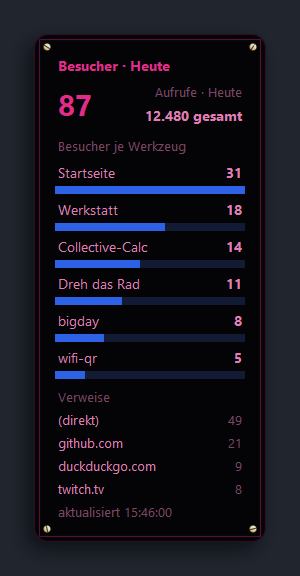
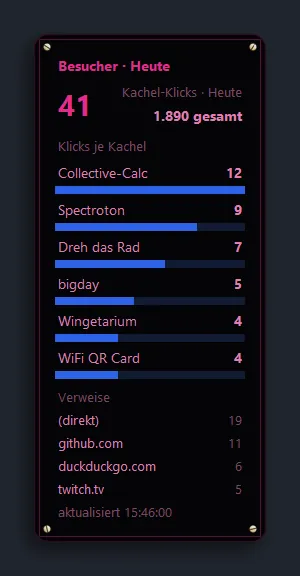
Anleitung Besucher-Ticker: neues Bild 1.3.0 mit Kachel-Klicks, Alt-Text in 14 Sprachen

diff --git a/js/guides.js b/js/guides.js
@@ -2132,20 +2132,20 @@ var GUIDES = {
         w: 300,
         h: 576,
         alt: {
-          de: 'Der Besucher-Ticker mit Beispielzahlen: oben 87 Aufrufe heute und 12.480 insgesamt, darunter ein Balken je Werkzeug von der Startseite bis wifi-qr und ganz unten die Verweise, also woher die Besucher kamen.',
-          en: 'The Besucher-Ticker with sample numbers: at the top 87 pageviews today and 12,480 in total, below that one bar per tool from the start page to wifi-qr, and at the bottom the referrers, meaning where the visitors came from. The picture shows the German interface.',
-          es: 'El Besucher-Ticker con cifras de ejemplo: arriba 87 visitas hoy y 12.480 en total, debajo una barra por herramienta, desde la página de inicio hasta wifi-qr, y abajo del todo las referencias, es decir, de dónde llegaron los visitantes. La imagen muestra la interfaz en alemán.',
-          fr: 'Le Besucher-Ticker avec des chiffres d’exemple : en haut 87 pages vues aujourd’hui et 12 480 au total, en dessous une barre par outil, de la page d’accueil à wifi-qr, et tout en bas les référents, c’est-à-dire d’où venaient les visiteurs. L’image montre l’interface en allemand.',
-          it: 'Il Besucher-Ticker con numeri di esempio: in alto 87 visualizzazioni oggi e 12.480 in totale, sotto una barra per ogni strumento, dalla pagina iniziale a wifi-qr, e in fondo i referrer, cioè da dove sono arrivati i visitatori. L’immagine mostra l’interfaccia in tedesco.',
-          nl: 'De Besucher-Ticker met voorbeeldgetallen: bovenaan 87 weergaven vandaag en 12.480 in totaal, daaronder één balk per tool, van de startpagina tot wifi-qr, en helemaal onderaan de verwijzers, dus waar de bezoekers vandaan kwamen. De afbeelding toont de Duitse interface.',
-          pl: 'Besucher-Ticker z przykładowymi liczbami: u góry 87 odsłon dzisiaj i 12 480 łącznie, pod spodem jeden pasek na każde narzędzie, od strony startowej do wifi-qr, a na samym dole odsyłacze, czyli skąd przyszli odwiedzający. Obraz pokazuje interfejs po niemiecku.',
-          pt: 'O Besucher-Ticker com números de exemplo: no alto 87 visualizações hoje e 12.480 no total, abaixo uma barra por ferramenta, da página inicial até wifi-qr, e lá embaixo as origens, ou seja, de onde vieram os visitantes. A imagem mostra a interface em alemão.',
-          tr: 'Örnek sayılarla Besucher-Ticker: üstte bugün 87 görüntüleme ve toplam 12.480, altında başlangıç sayfasından wifi-qr’ye kadar her araç için bir çubuk, en altta da yönlendirenler, yani ziyaretçilerin nereden geldiği. Görselde Almanca arayüz görünüyor.',
-          ru: 'Besucher-Ticker с примерными цифрами: вверху 87 просмотров за сегодня и 12 480 всего, ниже по одной полосе на каждый инструмент, от стартовой страницы до wifi-qr, а в самом низу источники переходов, то есть откуда пришли посетители. На картинке интерфейс на немецком.',
-          hi: 'उदाहरण वाले आँकड़ों के साथ Besucher-Ticker: ऊपर आज के 87 व्यू और कुल 12,480, उसके नीचे हर टूल के लिए एक बार, स्टार्ट पेज से wifi-qr तक, और सबसे नीचे रेफ़रर, यानी विज़िटर कहाँ से आए। तस्वीर में जर्मन इंटरफ़ेस दिख रहा है।',
-          zh: '带示例数字的 Besucher-Ticker：上方是今天 87 次浏览、总计 12,480 次，下面每个工具一条横条，从首页到 wifi-qr，最下面是来源，也就是访客从哪里来。图中是德语界面。',
-          ja: 'サンプルの数字を入れた Besucher-Ticker。上に今日の閲覧数87と累計12,480、その下にスタートページから wifi-qr までツールごとのバー、いちばん下に参照元（訪問者がどこから来たか）。画像はドイツ語の画面です。',
-          ko: '예시 숫자를 넣은 Besucher-Ticker. 위에는 오늘 조회 수 87과 누적 12,480, 그 아래에는 시작 페이지부터 wifi-qr까지 도구마다 막대 하나, 맨 아래에는 유입 경로, 곧 방문자가 어디서 왔는지가 나옵니다. 그림 속 화면은 독일어입니다.'
+          de: 'Der Besucher-Ticker mit Beispielzahlen: oben 41 Kachel-Klicks heute und 1.890 insgesamt, darunter ein Balken je Kachel von Collective-Calc bis WiFi QR Card und ganz unten die Verweise, also woher die Besucher kamen.',
+          en: 'The Besucher-Ticker with sample numbers: at the top 41 tile clicks today and 1,890 in total, below that one bar per tile from Collective-Calc to WiFi QR Card, and at the bottom the referrers, meaning where the visitors came from. The picture shows the German interface.',
+          es: 'El Besucher-Ticker con cifras de ejemplo: arriba 41 clics en tarjetas hoy y 1.890 en total, debajo una barra por tarjeta, desde Collective-Calc hasta WiFi QR Card, y abajo del todo las referencias, es decir, de dónde llegaron los visitantes. La imagen muestra la interfaz en alemán.',
+          fr: 'Le Besucher-Ticker avec des chiffres d’exemple : en haut 41 clics sur les vignettes aujourd’hui et 1 890 au total, en dessous une barre par vignette, de Collective-Calc à WiFi QR Card, et tout en bas les référents, c’est-à-dire d’où venaient les visiteurs. L’image montre l’interface en allemand.',
+          it: 'Il Besucher-Ticker con numeri di esempio: in alto 41 clic sulle schede oggi e 1.890 in totale, sotto una barra per ogni scheda, da Collective-Calc a WiFi QR Card, e in fondo i referrer, cioè da dove sono arrivati i visitatori. L’immagine mostra l’interfaccia in tedesco.',
+          nl: 'De Besucher-Ticker met voorbeeldgetallen: bovenaan 41 tegelklikken vandaag en 1.890 in totaal, daaronder één balk per tegel, van Collective-Calc tot WiFi QR Card, en helemaal onderaan de verwijzers, dus waar de bezoekers vandaan kwamen. De afbeelding toont de Duitse interface.',
+          pl: 'Besucher-Ticker z przykładowymi liczbami: u góry 41 kliknięć kafelków dzisiaj i 1 890 łącznie, pod spodem jeden pasek na każdy kafelek, od Collective-Calc do WiFi QR Card, a na samym dole odsyłacze, czyli skąd przyszli odwiedzający. Obraz pokazuje interfejs po niemiecku.',
+          pt: 'O Besucher-Ticker com números de exemplo: no alto 41 cliques nos cartões hoje e 1.890 no total, abaixo uma barra por cartão, de Collective-Calc até WiFi QR Card, e lá embaixo as origens, ou seja, de onde vieram os visitantes. A imagem mostra a interface em alemão.',
+          tr: 'Örnek sayılarla Besucher-Ticker: üstte bugün 41 kart tıklaması ve toplam 1.890, altında Collective-Calc’tan WiFi QR Card’a kadar her kart için bir çubuk, en altta da yönlendirenler, yani ziyaretçilerin nereden geldiği. Görselde Almanca arayüz görünüyor.',
+          ru: 'Besucher-Ticker с примерными цифрами: вверху 41 клик по плиткам за сегодня и 1 890 всего, ниже по одной полосе на каждую плитку, от Collective-Calc до WiFi QR Card, а в самом низу источники переходов, то есть откуда пришли посетители. На картинке интерфейс на немецком.',
+          hi: 'उदाहरण वाले आँकड़ों के साथ Besucher-Ticker: ऊपर आज के 41 कार्ड क्लिक और कुल 1,890, उसके नीचे हर कार्ड के लिए एक बार, Collective-Calc से WiFi QR Card तक, और सबसे नीचे रेफ़रर, यानी विज़िटर कहाँ से आए। तस्वीर में जर्मन इंटरफ़ेस दिख रहा है।',
+          zh: '带示例数字的 Besucher-Ticker：上方是今天 41 次卡片点击、总计 1,890 次，下面每张卡片一条横条，从 Collective-Calc 到 WiFi QR Card，最下面是来源，也就是访客从哪里来。图中是德语界面。',
+          ja: 'サンプルの数字を入れた Besucher-Ticker。上に今日のカードのクリック数41と累計1,890、その下に Collective-Calc から WiFi QR Card までカードごとのバー、いちばん下に参照元（訪問者がどこから来たか）。画像はドイツ語の画面です。',
+          ko: '예시 숫자를 넣은 Besucher-Ticker. 위에는 오늘 타일 클릭 41과 누적 1,890, 그 아래에는 Collective-Calc부터 WiFi QR Card까지 타일마다 막대 하나, 맨 아래에는 유입 경로, 곧 방문자가 어디서 왔는지가 나옵니다. 그림 속 화면은 독일어입니다.'
         }
       }
     ],

diff --git a/werkstatt.html b/werkstatt.html
@@ -103,7 +103,7 @@
 
 <script src="./js/i18n.js?v=2026-11-12h"></script>
 <script src="./js/news.js?v=2026-11-12h"></script>
-<script src="./js/guides.js?v=2026-11-12h"></script>
+<script src="./js/guides.js?v=2026-11-12i"></script>
 <script src="./js/dates.js?v=2026-09-14"></script>
 <script src="./js/header.js?v=2026-11-12h"></script>
 <script src="./js/werkstatt.js?v=2026-11-12h"></script>
